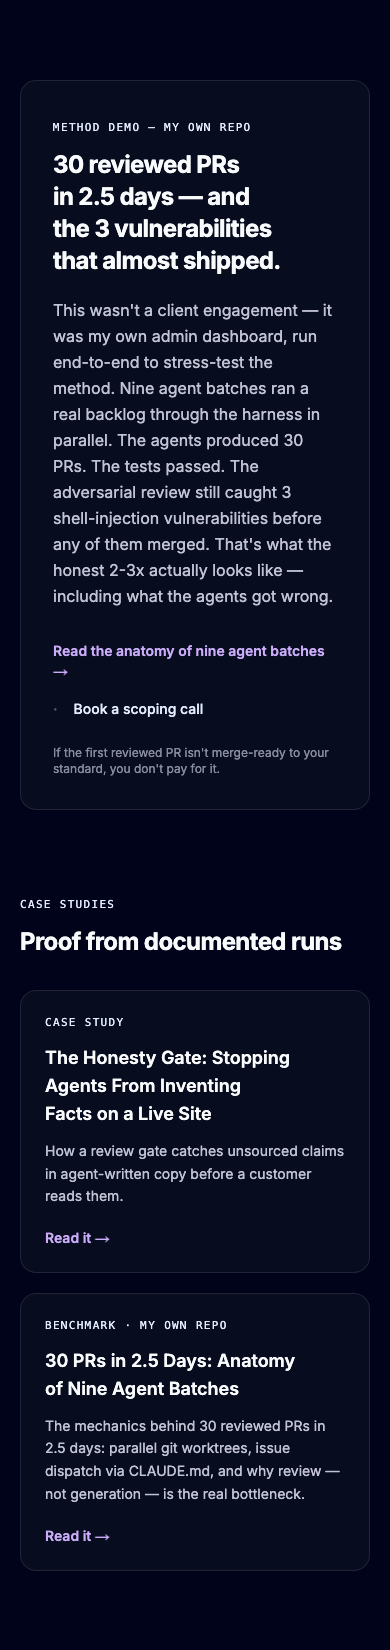
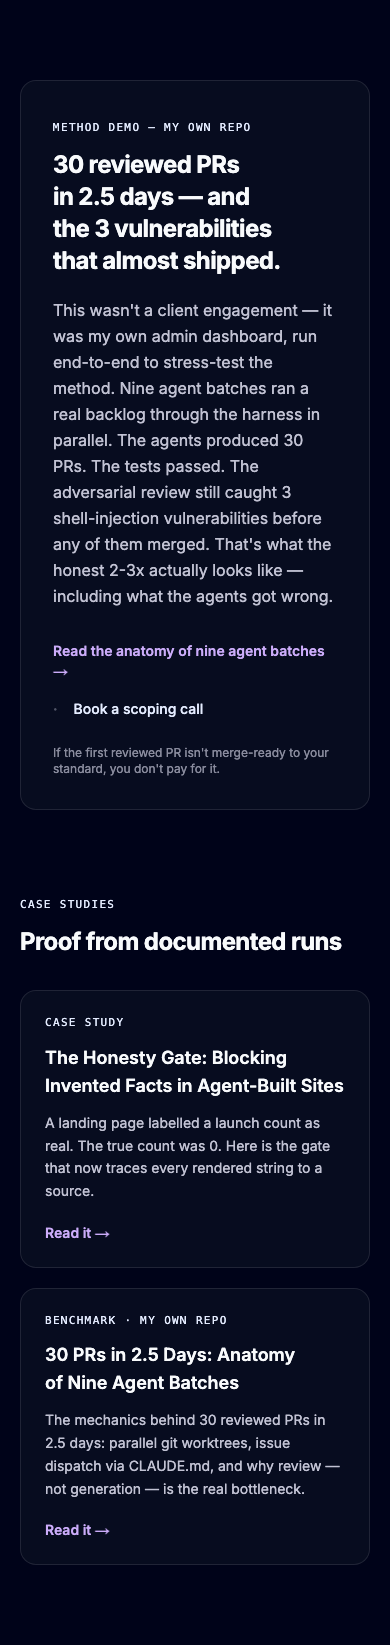
📝 docs(#31): publish the honesty-gate case study
Fills every slot from the cleared run (product unnamed, sources kept in a
private note), adds the provenance-gate diagram and the audit CTA, and
refreshes the after screenshots.

diff --git a/__tests__/blog.test.ts b/__tests__/blog.test.ts
@@ -57,7 +57,7 @@ describe("case studies (content/work via the dir param)", () => {
     expect(studies.some((s) => s.slug === "30-prs-in-2-5-days")).toBe(false);
   });
 
-  it("reads a draft case study by slug from content/work", async () => {
+  it("reads a case study by slug from content/work", async () => {
     const study = await getPost("honesty-gate", WORK_DIR);
     expect(study.slug).toBe("honesty-gate");
     expect(study.source.length).toBeGreaterThan(0);
@@ -81,7 +81,7 @@ describe("case-study honesty guard", () => {
     await expect(getPosts(dir)).rejects.toThrow(/TODO\(adi\)/);
   });
 
-  it("does not throw for the unpublished honesty-gate draft", async () => {
+  it("lets the finished honesty-gate case study through the gate", async () => {
     await expect(getPosts(WORK_DIR)).resolves.toBeDefined();
   });
 });
